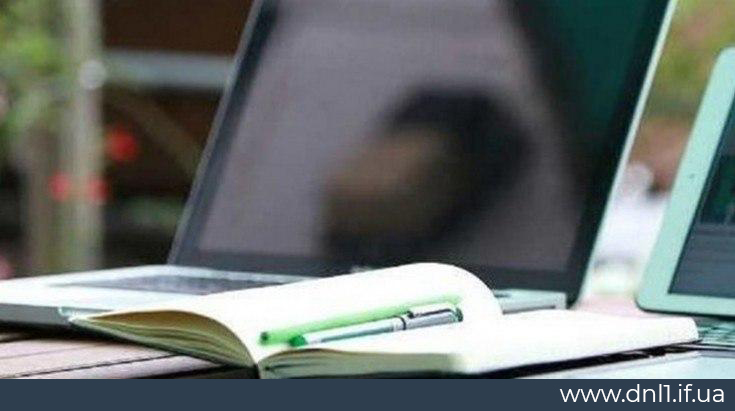
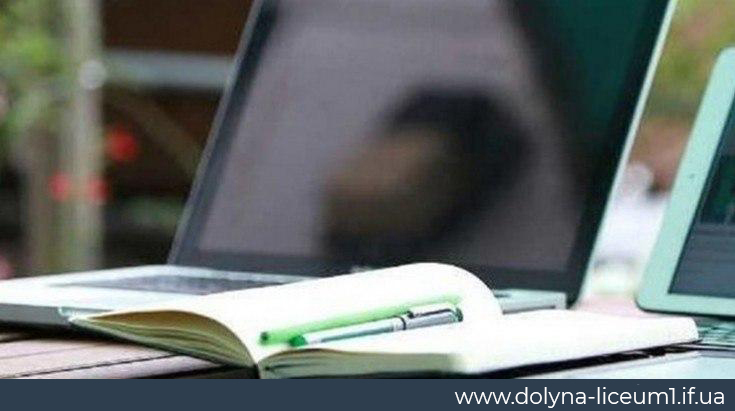
Some rebranding changes

Changed region(s): [[0.5986, 0.9343, 0.9878, 0.9927]]

diff --git a/dnl1/templates/dnl1/about-us.html b/dnl1/templates/dnl1/about-us.html
@@ -32,7 +32,7 @@
         <p><a data-fancybox="gallery" href="{% static 'dnl1/images/about_us/ChudykWinner.jpg' %}" data-caption="Переможець IV етапу Всеукраїнської олімпіади з математики"><img src="{% static 'dnl1/images/about_us/ChudykWinner.jpg' %}" width=350></a></p>
         <figcaption>Перемога на IV етапі Всеукраїнської<br> учнівської олімпіади з математики</figcaption>
     </figure>
-    <p><span class="bold-text">ДОЛИНСЬКИЙ НАУКОВИЙ ЛІЦЕЙ №1</span>  Долинської районної ради Івано-Франківської області – заклад спеціалізованої освіти ІІ-ІІІ ступенів наукового профілю, що забезпечує профільне навчання на основі поєднання змісту освіти, визначеного стандартом профільної середньої школи, і поглибленого вивчення окремих предметів з урахуванням здібностей та освітніх потреб здобувачів освіти з орієнтацією на продовження навчання на вищих рівнях освіти. </p>
+    <p><span class="bold-text">ДОЛИНСЬКИЙ ЛІЦЕЙ №1</span>  Долинської міської ради Івано-Франківської області – заклад спеціалізованої освіти ІІ-ІІІ ступенів наукового профілю, що забезпечує профільне навчання на основі поєднання змісту освіти, визначеного стандартом профільної середньої школи, і поглибленого вивчення окремих предметів з урахуванням здібностей та освітніх потреб здобувачів освіти з орієнтацією на продовження навчання на вищих рівнях освіти. </p>
     <p><span class="bold-text">Місія:</span> створення оптимальних умов для всебічного розвитку та самореалізації обдарованої дитини.</p>
     <p><span class="bold-text">Мета:</span> створити комфортне освітнє середовище для учнів та їх наставників через прогнозовану систему роботи, спрямовану на формування освіченої, інтелектуально розвиненої молодої людини.</p>
     <p><span class="bold-text">Переваги навчання в ліцеї:</span></p>
@@ -75,6 +75,7 @@
     <p>- <span class="year">1998</span>  Оновленою, гордою своїми учнями, славними випускниками і відданими педагогіці вчителями відзначила школа своє 90-річчя. Постали і нові завдання. В період соціально-економічної кризи в державі, колектив наполегливо виробляв перспективний план роботи і успішно виконує його.</p>
     <p>- <span class="year">2003</span>  Рішенням Долинської районної ради  №149-8/2003 від 20.05.2003р. реорганізовано Долинську загальноосвітню школу І-ІІІст.№1 в Долинську гімназію №1</p>
     <p>- <span class="year">2018</span>  Прийнято рішення районної ради про перепрофілювання гімназії у ДОЛИНСЬКИЙ НАУКОВИЙ ЛІЦЕЙ №1.</p>
+    <p>- <span class="year">2020</span>  Прийнято рішення змінити найменування Долинського наукового ліцею II-III ступенів №1 Долинської районної ради Івано-Франківської області на ДОЛИНСЬКИЙ ЛІЦЕЙ №1 ДОЛИНСЬКОЇ МІСЬКОЇ РАДИ ІВАНО-ФРАНКІВСЬКОЇ ОБЛАСТІ.</p>
 </div>
   
 <div class="container" id="fam-graduate">

diff --git a/dnl1/templates/dnl1/homePage.html b/dnl1/templates/dnl1/homePage.html
@@ -1,13 +1,13 @@
 {% extends 'dnl1/wrapper.html' %}
 
 {% block title %}
-Долинський науковий ліцей №1
+Долинський ліцей №1
 {% endblock %}
 
 {% block metatags %}
-<meta name="description" content="Долинський науковий ліцей № 1 — найстаріший середній навчальний заклад у м. Долина Івано-Франківської області, створений у 19 ст., для учнів 5-11 класів. Одна з найкращих шкіл району за результатами ЗНО, значною кількістю призерів шкільних олімпіад на різних етапах.">
+<meta name="description" content="Долинський ліцей № 1 — найстаріший середній навчальний заклад у м. Долина Івано-Франківської області, створений у 19 ст., для учнів 5-11 класів. Одна з найкращих шкіл району за результатами ЗНО, значною кількістю призерів шкільних олімпіад на різних етапах.">
 <meta name="keywords" content="ДНЛ,ДНЛ1,Ліцей,Школа,Долина">
-<meta name="author" content="Shteniovych">
+<meta name="author" content="Vasyl Shtenovych">
 {% endblock %}
 
 {% block cssfiles %}
@@ -29,7 +29,7 @@
         <div class="header-text row justify-content-center">
             <div class="col-md-9">
                 <div class="center">
-                    <h1>Долинський науковий ліцей #1</h1>
+                    <h1>Долинський ліцей #1</h1>
                     <h3>Освіта - найвеличніше з усіх земних благ, але тільки тоді, коли вона найвищої якості. Інакше вона абсолютно даремна.  © Редьярд Кіплінг</h3>
                     <a class="btn" id="about-us-button" href="/about-us" role="button">Про нас</a>
                 </div>
@@ -43,7 +43,7 @@
         <div class="header-text row justify-content-center">
             <div class="col-md-9">
                 <div class="center">
-                    <h1>Долинський науковий ліцей #1</h1>
+                    <h1>Долинський ліцей #1</h1>
                     <h3>Бачити в кожній дитині особистість, творчу, обдаровану, цікаву – першорядне завдання Долинського наукового ліцею №1</h3>
                     <a class="btn" id="about-us-button" href="/about-us" role="button">Про нас</a>
                 </div>
@@ -57,7 +57,7 @@
         <div class="header-text row justify-content-center">
             <div class="col-md-9">
                <div class="center">
-                    <h1>Долинський науковий ліцей #1</h1>
+                    <h1>Долинський ліцей #1</h1>
                     <h3>Бачити в кожній дитині особистість, творчу, обдаровану, цікаву – першорядне завдання Долинського наукового ліцею №1</h3>
                     <a class="btn" id="about-us-button" href="/about-us" role="button">Про нас</a>
                </div>

diff --git a/dnl1/templates/dnl1/wrapper.html b/dnl1/templates/dnl1/wrapper.html
@@ -84,7 +84,7 @@
                 <div class="col-md-4">
                     <ul class="footer-nav_menu">
                         <li id="title">Детальніше про ліцей</li>
-                        <li><a href="/about-us">Долинський науковий ліцей №1</a></li>
+                        <li><a href="/about-us">Долинський ліцей №1</a></li>
                         <li><a href="/methodical-work/administration">Адміністрація закладу</a></li>
                         <li><a href="/contacts">Контакти</a></li>
                     </ul>

diff --git a/dnl1-project/settings.py b/dnl1-project/settings.py
@@ -1,20 +1,6 @@
-"""
-Django settings for dnl1-project project.
-
-Generated by 'django-admin startproject' using Django 2.2.2.
-
-For more information on this file, see
-https://docs.djangoproject.com/en/2.2/topics/settings/
-
-For the full list of settings and their values, see
-https://docs.djangoproject.com/en/2.2/ref/settings/
-"""
-
 import os
 # Build paths inside the project like this: os.path.join(BASE_DIR, ...)
 BASE_DIR = os.path.dirname(os.path.dirname(os.path.abspath(__file__)))
-
-
 
 
 # Quick-start development settings - unsuitable for production
